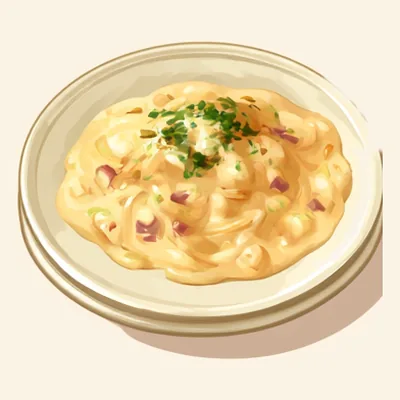
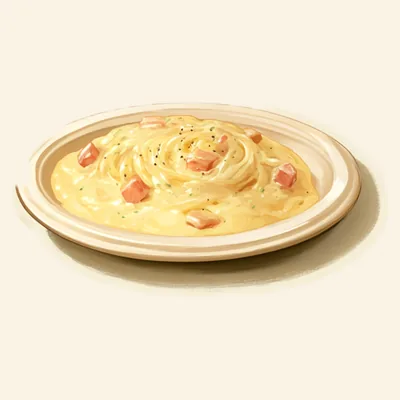
feat: 図鑑の48品すべてのカードの絵をそろえる（残り17品と、描き直し3品）
1段4品の指示文で作り直した画像から、料理ごとに一番よい皿を選んで切り出した。
並び方がばらばらだったので、皿を自動で見つけて番号を振る道具を足した。

- 残り17品（青椒肉絲・油淋鶏・よだれ鶏・鮭のホイル焼き・ちゃんちゃん焼き・さばの竜田揚げ・豆腐ハンバーグ・肉豆腐・ニラ玉・牛丼・ガパオ・タコライス・キーマ・中華丼・ビビンバ・焼きうどん・ピザトースト）
- 親子丼・天津飯・カルボナーラは、より料理らしい2回目の絵に差し替えた
- 隣の皿とくっついた器は、範囲と器の輪郭を手で指定して切り出した（記録は card-art-picks-2.json）
- scripts/find-card-plates.py（皿を見つけて番号を描く・選んで切り出す）
- 図鑑の48品は全部に絵がある、をテストで確かめる

Claude-Session: https://claude.ai/code/session_01CHLCeXk6No7dux4XESqXB8

diff --git a/index.html b/index.html
@@ -22,14 +22,14 @@
     <meta name="apple-mobile-web-app-status-bar-style" content="default">
     <meta name="apple-mobile-web-app-title" content="リピごち">
     <link rel="canonical" href="https://165cm.github.io/matagochi/">
-    <link rel="manifest" href="manifest.webmanifest?v=20261115-card-text">
-    <link rel="icon" type="image/png" sizes="32x32" href="icons/favicon-32.png?v=20261115-card-text">
-    <link rel="apple-touch-icon" href="icons/apple-touch-icon.png?v=20261115-card-text">
+    <link rel="manifest" href="manifest.webmanifest?v=20261115-card-art-48">
+    <link rel="icon" type="image/png" sizes="32x32" href="icons/favicon-32.png?v=20261115-card-art-48">
+    <link rel="apple-touch-icon" href="icons/apple-touch-icon.png?v=20261115-card-art-48">
     <title>リピごち</title>
     <link rel="preconnect" href="https://fonts.googleapis.com">
     <link rel="preconnect" href="https://fonts.gstatic.com" crossorigin>
     <link rel="stylesheet" href="https://fonts.googleapis.com/css2?family=Zen+Maru+Gothic:wght@500;700;900&family=Klee+One:wght@600&family=Shippori+Mincho+B1:wght@600;800&family=Caveat:wght@600&display=swap">
-    <link rel="stylesheet" href="styles.css?v=20261115-card-text">
+    <link rel="stylesheet" href="styles.css?v=20261115-card-art-48">
   </head>
   <body>
     <div class="app-shell">
@@ -56,32 +56,32 @@
     <script>
       window.MATAGOCHI_API_BASE_URL = "https://matagochi-api-292190013809.us-central1.run.app";
     </script>
-    <script src="dinner-persona.js?v=20261115-card-text"></script>
-    <script src="taste.js?v=20261115-card-text"></script>
-    <script src="taste-ui.js?v=20261115-card-text"></script>
-    <script src="starter-recipes.js?v=20261115-card-text"></script>
-    <script src="skills.js?v=20261115-card-text"></script>
-    <script src="aisles.js?v=20261115-card-text"></script>
-    <script src="lifestyle.js?v=20261115-card-text"></script>
-    <script src="profile-talk.js?v=20261115-card-text"></script>
-    <script src="talk-ui.js?v=20261115-card-text"></script>
-    <script src="daily-ui.js?v=20261115-card-text"></script>
-    <script src="image-import.js?v=20261115-card-text"></script>
-    <script src="playlist-import.js?v=20261115-card-text"></script>
-    <script src="household.js?v=20261115-card-text"></script>
-    <script src="skill-quiz.js?v=20261115-card-text"></script>
-    <script src="cook-level.js?v=20261115-card-text"></script>
-    <script src="weekly.js?v=20261115-card-text"></script>
-    <script src="cook-type.js?v=20261115-card-text"></script>
-    <script src="plan-moves.js?v=20261115-card-text"></script>
-    <script src="plus.js?v=20261115-card-text"></script>
-    <script src="folders.js?v=20261115-card-text"></script>
-    <script src="install.js?v=20261115-card-text"></script>
-    <script src="push.js?v=20261115-card-text"></script>
-    <script src="tickets.js?v=20261115-card-text"></script>
-    <script src="cook-mode.js?v=20261115-card-text"></script>
-    <script src="account.js?v=20261115-card-text"></script>
-    <script src="discover.js?v=20261115-card-text"></script>
-    <script src="app.js?v=20261115-card-text"></script>
+    <script src="dinner-persona.js?v=20261115-card-art-48"></script>
+    <script src="taste.js?v=20261115-card-art-48"></script>
+    <script src="taste-ui.js?v=20261115-card-art-48"></script>
+    <script src="starter-recipes.js?v=20261115-card-art-48"></script>
+    <script src="skills.js?v=20261115-card-art-48"></script>
+    <script src="aisles.js?v=20261115-card-art-48"></script>
+    <script src="lifestyle.js?v=20261115-card-art-48"></script>
+    <script src="profile-talk.js?v=20261115-card-art-48"></script>
+    <script src="talk-ui.js?v=20261115-card-art-48"></script>
+    <script src="daily-ui.js?v=20261115-card-art-48"></script>
+    <script src="image-import.js?v=20261115-card-art-48"></script>
+    <script src="playlist-import.js?v=20261115-card-art-48"></script>
+    <script src="household.js?v=20261115-card-art-48"></script>
+    <script src="skill-quiz.js?v=20261115-card-art-48"></script>
+    <script src="cook-level.js?v=20261115-card-art-48"></script>
+    <script src="weekly.js?v=20261115-card-art-48"></script>
+    <script src="cook-type.js?v=20261115-card-art-48"></script>
+    <script src="plan-moves.js?v=20261115-card-art-48"></script>
+    <script src="plus.js?v=20261115-card-art-48"></script>
+    <script src="folders.js?v=20261115-card-art-48"></script>
+    <script src="install.js?v=20261115-card-art-48"></script>
+    <script src="push.js?v=20261115-card-art-48"></script>
+    <script src="tickets.js?v=20261115-card-art-48"></script>
+    <script src="cook-mode.js?v=20261115-card-art-48"></script>
+    <script src="account.js?v=20261115-card-art-48"></script>
+    <script src="discover.js?v=20261115-card-art-48"></script>
+    <script src="app.js?v=20261115-card-art-48"></script>
   </body>
 </html>

diff --git a/app.js b/app.js
@@ -13,7 +13,7 @@ const SYNC_POLL_MS = 15_000;
 const SYNC_ROOM_ID_PATTERN = /^[a-f0-9]{64}$/;
 
 const defaultFamily = ["自分"];
-const APP_VERSION = "20261115-card-text";
+const APP_VERSION = "20261115-card-art-48";
 const emptyDraft = { sourceServings: null, servingsManual: false, catalog: null, title: "", videoUrl: "", source: "", author: "", mealType: "dinner", caption: "", note: "", stepTimes: [], stepTimesFrom: undefined };
 const defaultRepeatCycle = "weekly";
 const repeatOptions = [
@@ -2116,7 +2116,7 @@ const STARTER_PHOTOS = {
   "starter-06": "assets/dishes/tomato-cheese.webp",
 };
 // Split from AI-generated 3x2 sheets (scripts/split-dish-sheet.py); keep in sync with sw.js.
-const STARTER_SHEET_PHOTOS = ["03", "04", "07", "08", "09", "10", "11", "12", "14", "15", "16", "17", "18", "19", "20", "21", "22", "23", "24", "25", "26", "27", "29", "30", "31", "32", "33", "34", "35", "36", "37", "38", "39", "40", "41", "42", "43", "44", "45", "46", "47", "48", "51", "52", "53", "54", "55", "59", "60", "61", "62", "65", "66", "67", "69", "70", "71", "75", "76", "77", "78", "83", "84", "85", "86", "87", "90", "91", "92", "93", "94", "95", "96"];
+const STARTER_SHEET_PHOTOS = ["03", "04", "07", "08", "09", "10", "11", "12", "14", "15", "16", "17", "18", "19", "20", "21", "22", "23", "24", "25", "26", "27", "29", "30", "31", "32", "33", "34", "35", "36", "37", "38", "39", "40", "41", "42", "43", "44", "45", "46", "47", "48", "51", "52", "53", "54", "55", "59", "60", "61", "62", "65", "66", "67", "69", "70", "71", "75", "76", "77", "78", "83", "84", "85", "86", "87", "90", "91", "92", "93", "94", "95", "96", "56", "57", "58", "63", "64", "68", "72", "73", "74", "79", "80", "81", "82", "88", "89", "97", "98"];
 STARTER_SHEET_PHOTOS.forEach((n) => { STARTER_PHOTOS[`starter-${n}`] = `assets/dishes/starter-${n}.webp`; });
 function recipeThumbnail(recipe) {
   if (recipe.thumbnailUrl) return recipe.thumbnailUrl;

diff --git a/sw.js b/sw.js
@@ -1,5 +1,5 @@
-const CACHE_NAME = "ripigochi-v237";
-const APP_VERSION = "20261115-card-text";
+const CACHE_NAME = "ripigochi-v238";
+const APP_VERSION = "20261115-card-art-48";
 const CORE_ASSETS = [
   "./assets/dish-picks/shogayaki.webp",
   "./assets/dish-picks/karaage.webp",
@@ -25,7 +25,7 @@ const CORE_ASSETS = [
   `./taste-ui.js?v=${APP_VERSION}`,
   ...Array.from({length:8}, (_,i) => `./assets/taste/${i+1}.webp`),
   ...["teriyaki","tomato-pasta","porkkimchi","kinoko-udon","tofu-egg","tomato-cheese"].map(n => `./assets/dishes/${n}.webp`),
-  ...["03", "04", "07", "08", "09", "10", "11", "12", "14", "15", "16", "17", "18", "19", "20", "21", "22", "23", "24", "25", "26", "27", "29", "30", "31", "32", "33", "34", "35", "36", "37", "38", "39", "40", "41", "42", "43", "44", "45", "46", "47", "48", "51", "52", "53", "54", "55", "59", "60", "61", "62", "65", "66", "67", "69", "70", "71", "75", "76", "77", "78", "83", "84", "85", "86", "87", "90", "91", "92", "93", "94", "95", "96"].map(n => `./assets/dishes/starter-${n}.webp`),
+  ...["03", "04", "07", "08", "09", "10", "11", "12", "14", "15", "16", "17", "18", "19", "20", "21", "22", "23", "24", "25", "26", "27", "29", "30", "31", "32", "33", "34", "35", "36", "37", "38", "39", "40", "41", "42", "43", "44", "45", "46", "47", "48", "51", "52", "53", "54", "55", "59", "60", "61", "62", "65", "66", "67", "69", "70", "71", "75", "76", "77", "78", "83", "84", "85", "86", "87", "90", "91", "92", "93", "94", "95", "96", "56", "57", "58", "63", "64", "68", "72", "73", "74", "79", "80", "81", "82", "88", "89", "97", "98"].map(n => `./assets/dishes/starter-${n}.webp`),
   ...["rice","noodle","bread","okazu"].map(n => `./assets/dishes/fallback-${n}.webp`),
   ...["normal","wave","popup","open","wait","bowl","happy"].map(n => `./assets/yohaku/${n}.webp?v=${APP_VERSION}`),
   `./starter-recipes.js?v=${APP_VERSION}`,

diff --git a/scripts/find-card-plates.py b/scripts/find-card-plates.py
@@ -1,0 +1,134 @@
+#!/usr/bin/env python3
+"""画像の中の皿（背景と違う大きなかたまり）を見つけて番号を振る（Pillow だけ）。
+
+使い方：
+  python3 -I scripts/find-card-plates.py list <画像…>            … 各画像の皿に番号を描いた確認用画像（<名前>-plates.jpg）を作る
+  python3 -I scripts/find-card-plates.py cut <picks.json> <フォルダ> <出力フォルダ> [--size 400]
+picks.json：{"starter-56": ["画像ファイル名", 皿の番号], …}（隣とくっついた皿は、番号の代わりに範囲 [x0, y0, x1, y1]。5つ目に数を足すと、左端のその割合を背景色で塗る）
+"""
+import json
+import sys
+from collections import deque
+from pathlib import Path
+
+from PIL import Image, ImageDraw, ImageFilter
+
+STEP = 4
+CARD_BG = (250, 243, 230)
+MARGIN = 0.05
+
+
+def median(v):
+    v = sorted(v)
+    return v[len(v) // 2]
+
+
+def plates(im):
+    """背景色と、皿のかたまり（大きい順でなく、上から・左から の順）を返す。"""
+    w, h = im.size
+    px = im.load()
+    corners = [px[x, y] for x in (3, w - 4) for y in (3, h - 4)]
+    bg = tuple(median([c[k] for c in corners]) for k in range(3))
+    gw, gh = w // STEP, h // STEP
+    on = [[False] * gw for _ in range(gh)]
+    for gy in range(gh):
+        for gx in range(gw):
+            r, g, b = px[gx * STEP, gy * STEP]
+            on[gy][gx] = abs(r - bg[0]) + abs(g - bg[1]) + abs(b - bg[2]) > 36
+    seen = [[False] * gw for _ in range(gh)]
+    comps = []
+    for sy in range(gh):
+        for sx in range(gw):
+            if not on[sy][sx] or seen[sy][sx]:
+                continue
+            comp, q = [], deque([(sx, sy)])
+            seen[sy][sx] = True
+            while q:
+                x, y = q.popleft()
+                comp.append((x, y))
+                for nx, ny in ((x + 1, y), (x - 1, y), (x, y + 1), (x, y - 1)):
+                    if 0 <= nx < gw and 0 <= ny < gh and on[ny][nx] and not seen[ny][nx]:
+                        seen[ny][nx] = True
+                        q.append((nx, ny))
+            if len(comp) * STEP * STEP > w * h * 0.01:
+                comps.append(comp)
+    def box(c):
+        xs = [x for x, _ in c]; ys = [y for _, y in c]
+        return min(xs) * STEP, min(ys) * STEP, (max(xs) + 1) * STEP, (max(ys) + 1) * STEP
+    items = [(box(c), c) for c in comps]
+    # 上の段から、同じ段は左から（段の境目は高さの半分くらいずれたら別の段）
+    items.sort(key=lambda it: (it[0][1] + it[0][3]) / 2)
+    rows, cur = [], []
+    for it in items:
+        cy = (it[0][1] + it[0][3]) / 2
+        if cur and cy - (cur[-1][0][1] + cur[-1][0][3]) / 2 > (cur[-1][0][3] - cur[-1][0][1]) * 0.5:
+            rows.append(cur); cur = []
+        cur.append(it)
+    if cur:
+        rows.append(cur)
+    out = []
+    for r in rows:
+        out += sorted(r, key=lambda it: it[0][0])
+    return bg, out
+
+
+def cmd_list(files):
+    for f in files:
+        im = Image.open(f).convert("RGB")
+        _, found = plates(im)
+        d = ImageDraw.Draw(im)
+        for i, (b, _) in enumerate(found, 1):
+            d.rectangle(b, outline=(220, 0, 0), width=4)
+            d.rectangle((b[0], b[1], b[0] + 44, b[1] + 34), fill=(220, 0, 0))
+            d.text((b[0] + 12, b[1] + 8), str(i), fill="white")
+        im.thumbnail((900, 900))
+        out = Path(f).with_name(Path(f).stem[-12:] + "-plates.jpg")
+        im.save(out, quality=80)
+        print(out.name, len(found))
+
+
+def cmd_cut(picks_file, src, out_dir, size):
+    picks = json.loads(Path(picks_file).read_text())
+    Path(out_dir).mkdir(parents=True, exist_ok=True)
+    for rid, (name, idx) in picks.items():
+        im = Image.open(Path(src) / name).convert("RGB")
+        found = None
+        trim = 0.0
+        if isinstance(idx, list) and len(idx) == 5:
+            trim = idx[4]  # 左端のこの割合を背景色で塗る（隣の皿のふちが残る時）
+            idx = idx[:4]
+        if isinstance(idx, list):
+            # 隣の皿とくっついている時：範囲を手で指定し、その中のいちばん大きなかたまりを使う
+            im = im.crop(tuple(idx))
+            _, found = plates(im)
+            found = sorted(found, key=lambda it: -len(it[1]))[:1]
+            idx = 1
+        w, h = im.size
+        _, found = plates(im) if not found else (None, found)
+        (x0, y0, x1, y1), comp = found[idx - 1]
+        gw, gh = w // STEP, h // STEP
+        keep = Image.new("L", (gw, gh), 0)
+        kp = keep.load()
+        for x, y in comp:
+            kp[x, y] = 255
+        keep = keep.filter(ImageFilter.MaxFilter(5)).resize((gw * STEP, gh * STEP), Image.NEAREST).crop((0, 0, w, h)) if False else keep.filter(ImageFilter.MaxFilter(5)).resize((w, h), Image.NEAREST).filter(ImageFilter.GaussianBlur(2))
+        clean = Image.composite(im, Image.new("RGB", (w, h), CARD_BG), keep)
+        side = int(max(x1 - x0, y1 - y0) * (1 + 2 * MARGIN))
+        cx, cy = (x0 + x1) / 2, (y0 + y1) / 2
+        sq = Image.new("RGB", (side, side), CARD_BG)
+        sq.paste(clean, (int(side / 2 - cx), int(side / 2 - cy)))  # はみ出した所は背景色のまま（黒くしない）
+        if trim:
+            sq.paste(CARD_BG, (0, 0, int(side * trim), side))
+        sq.resize((size, size), Image.LANCZOS).save(Path(out_dir) / f"{rid}.webp", "WEBP", quality=82, method=6)
+        print(rid, name[-12:], idx, (x1 - x0, y1 - y0))
+
+
+if __name__ == "__main__":
+    a = sys.argv[1:]
+    size = 400
+    if "--size" in a:
+        i = a.index("--size"); size = int(a[i + 1]); del a[i : i + 2]
+    if a[0] == "list":
+        cmd_list(a[1:])
+    else:
+        cmd_cut(a[1], a[2], a[3], size)

diff --git a/docs/STARTER_RECIPES.md b/docs/STARTER_RECIPES.md
@@ -12,7 +12,7 @@
 - **安全**：生の肉・加工肉（ベーコン・ウインナー）は「中心75℃を1分以上」を書く（`test/quick-dinners.test.cjs`）。刺身・明太子は消費期限内に、と書く
 - **データ**：`starter-recipes.js` の `recipes` に足した（`role: "daily"`・`dish`）。作り直す道具は持たず、材料の分類・アレルギー表示は同じ名前の材料に同じ値を使った
 - **以前の48品（starter-01〜48）は引退**：`lifestyle.js` で `retired: true`。いま出すのは `Lifestyle.starters`（新しい48品）。引退した料理は、**この家庭に関わりのある時だけ**出す（評価した・献立や記録にある・好きな料理に選んだ・リクエストした。`daily-ui.js` `keptStarterIds`）。記録から開く・また作るはできる。消さない
-- **絵**：Midjourney で作った画風B（ぷっくりした厚塗りのイラスト）。下の「絵の作り方」。2026-11-15 時点で31品が決まり、17品は作り直し中（それまでは主食ごとのイメージ写真）
+- **絵**：Midjourney で作った画風B（ぷっくりした厚塗りのイラスト）。下の「絵の作り方」。2026-11-15 に48品すべてそろった
 
 ### 図鑑（2026-11-15 のユーザーの判断）
 
@@ -31,6 +31,7 @@
 - **作り方**：1枚に8品（4列×2行・16:9）を頼むと、**下の段ほど指示から外れる**（別の料理・くり返し・数字の描き込み）。上の段（4品）はほぼ指示どおりなので、作り直しは**1段4品**（16:9）で頼む。Midjourney のスタイル参照（`--sref`）に、うまくいった画像を指定すると画風がそろう
 - **選び方**：1つの指示文で4枚できるので、**料理ごとに4枚の中から一番よいマスを選ぶ**（別の指示文の画像に正しい料理があれば、それを使ってもよい）。どの画像のどのマスを使ったかは `assets/dishes/card-art-picks.json`（元の画像はリポジトリに入れない）
 - **切り出し**：`python3 -I scripts/cut-card-art.py assets/dishes/card-art-picks.json <画像のフォルダ> assets/dishes`。マスの中のいちばん大きなかたまり（皿と影）だけを残して、描き込まれた数字などを消し、背景を1色（`CARD_BG`）にそろえて、400×400 の WebP（1枚12〜24KB）にする
+- **2回目（1段4品）**：並び方がばらばら（横1列・2段×3品・皿が重なる）になるので、`python3 -I scripts/find-card-plates.py list <画像…>` で皿を自動で見つけて番号を描き、`cut` で番号を選んで切り出す。隣の皿とくっついた器（親子丼・天津飯）は、範囲と器の左の輪郭を手で指定した（記録は `assets/dishes/card-art-picks-2.json`）。親子丼・天津飯・カルボナーラは、1回目より料理らしい2回目の絵に差し替えた
 - **つなぐ**：`app.js` の `STARTER_SHEET_PHOTOS` と `sw.js` の一覧に番号を足す（`test/quick-dinners.test.cjs` が同じかを確かめる）
 
 ---
